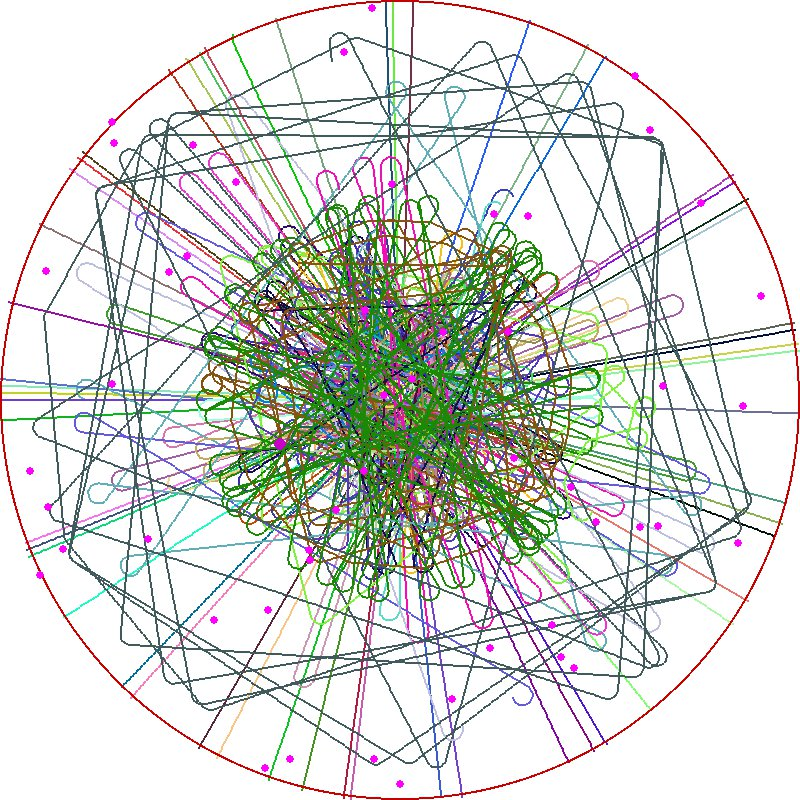
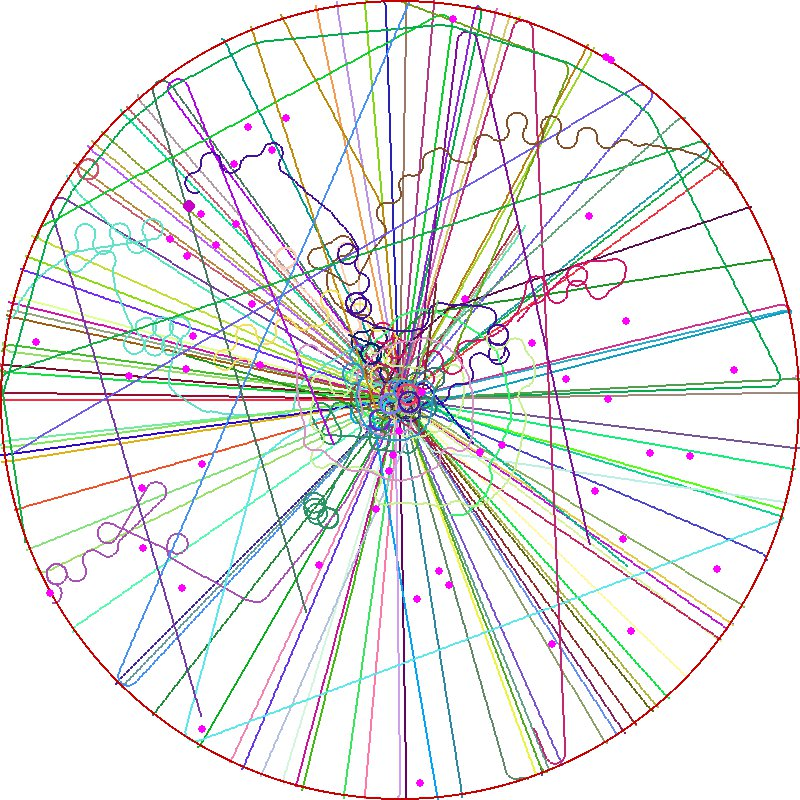
Add files via upload

diff --git a/main.py b/main.py
@@ -81,7 +81,7 @@ class Player:
 
         w = pygame.Rect(0, 0, 800, 800)
 
-        if math.dist((self.x * 4, self.y * 4), w.center) > border_rad or self.doom > 200:
+        if math.dist((self.x * 4, self.y * 4), w.center) > border_rad or self.doom > 400:
             self.active = False
             self.fitness = 0
 
@@ -149,10 +149,10 @@ def eval_genomes(genomes, config):
 
                     if e <= 6:
                         goals[q].reset()
-                        player.fitness += 1000
+                        player.fitness += 1
                         player.doom = 0
 
-                o = nets[i].activate([player.direction, border_rad, math.dist((player.x * 4, player.y * 4), window.get_rect().center), math.atan2(player.y * 4 - g.y * 8, player.x * 4 - g.x * 8), math.atan2(player.y * 4 - terminator.y * 4, player.x * 4 - terminator.x * 4)])
+                o = nets[i].activate([player.direction, border_rad - math.dist((player.x * 4, player.y * 4), window.get_rect().center), math.atan2(player.y * 4 - g.y * 8, player.x * 4 - g.x * 8), math.atan2(player.y * 4 - terminator.y * 4, player.x * 4 - terminator.x * 4)])
                 
                 if o.index(max(o)) == 0:
                     player.direction += .2
